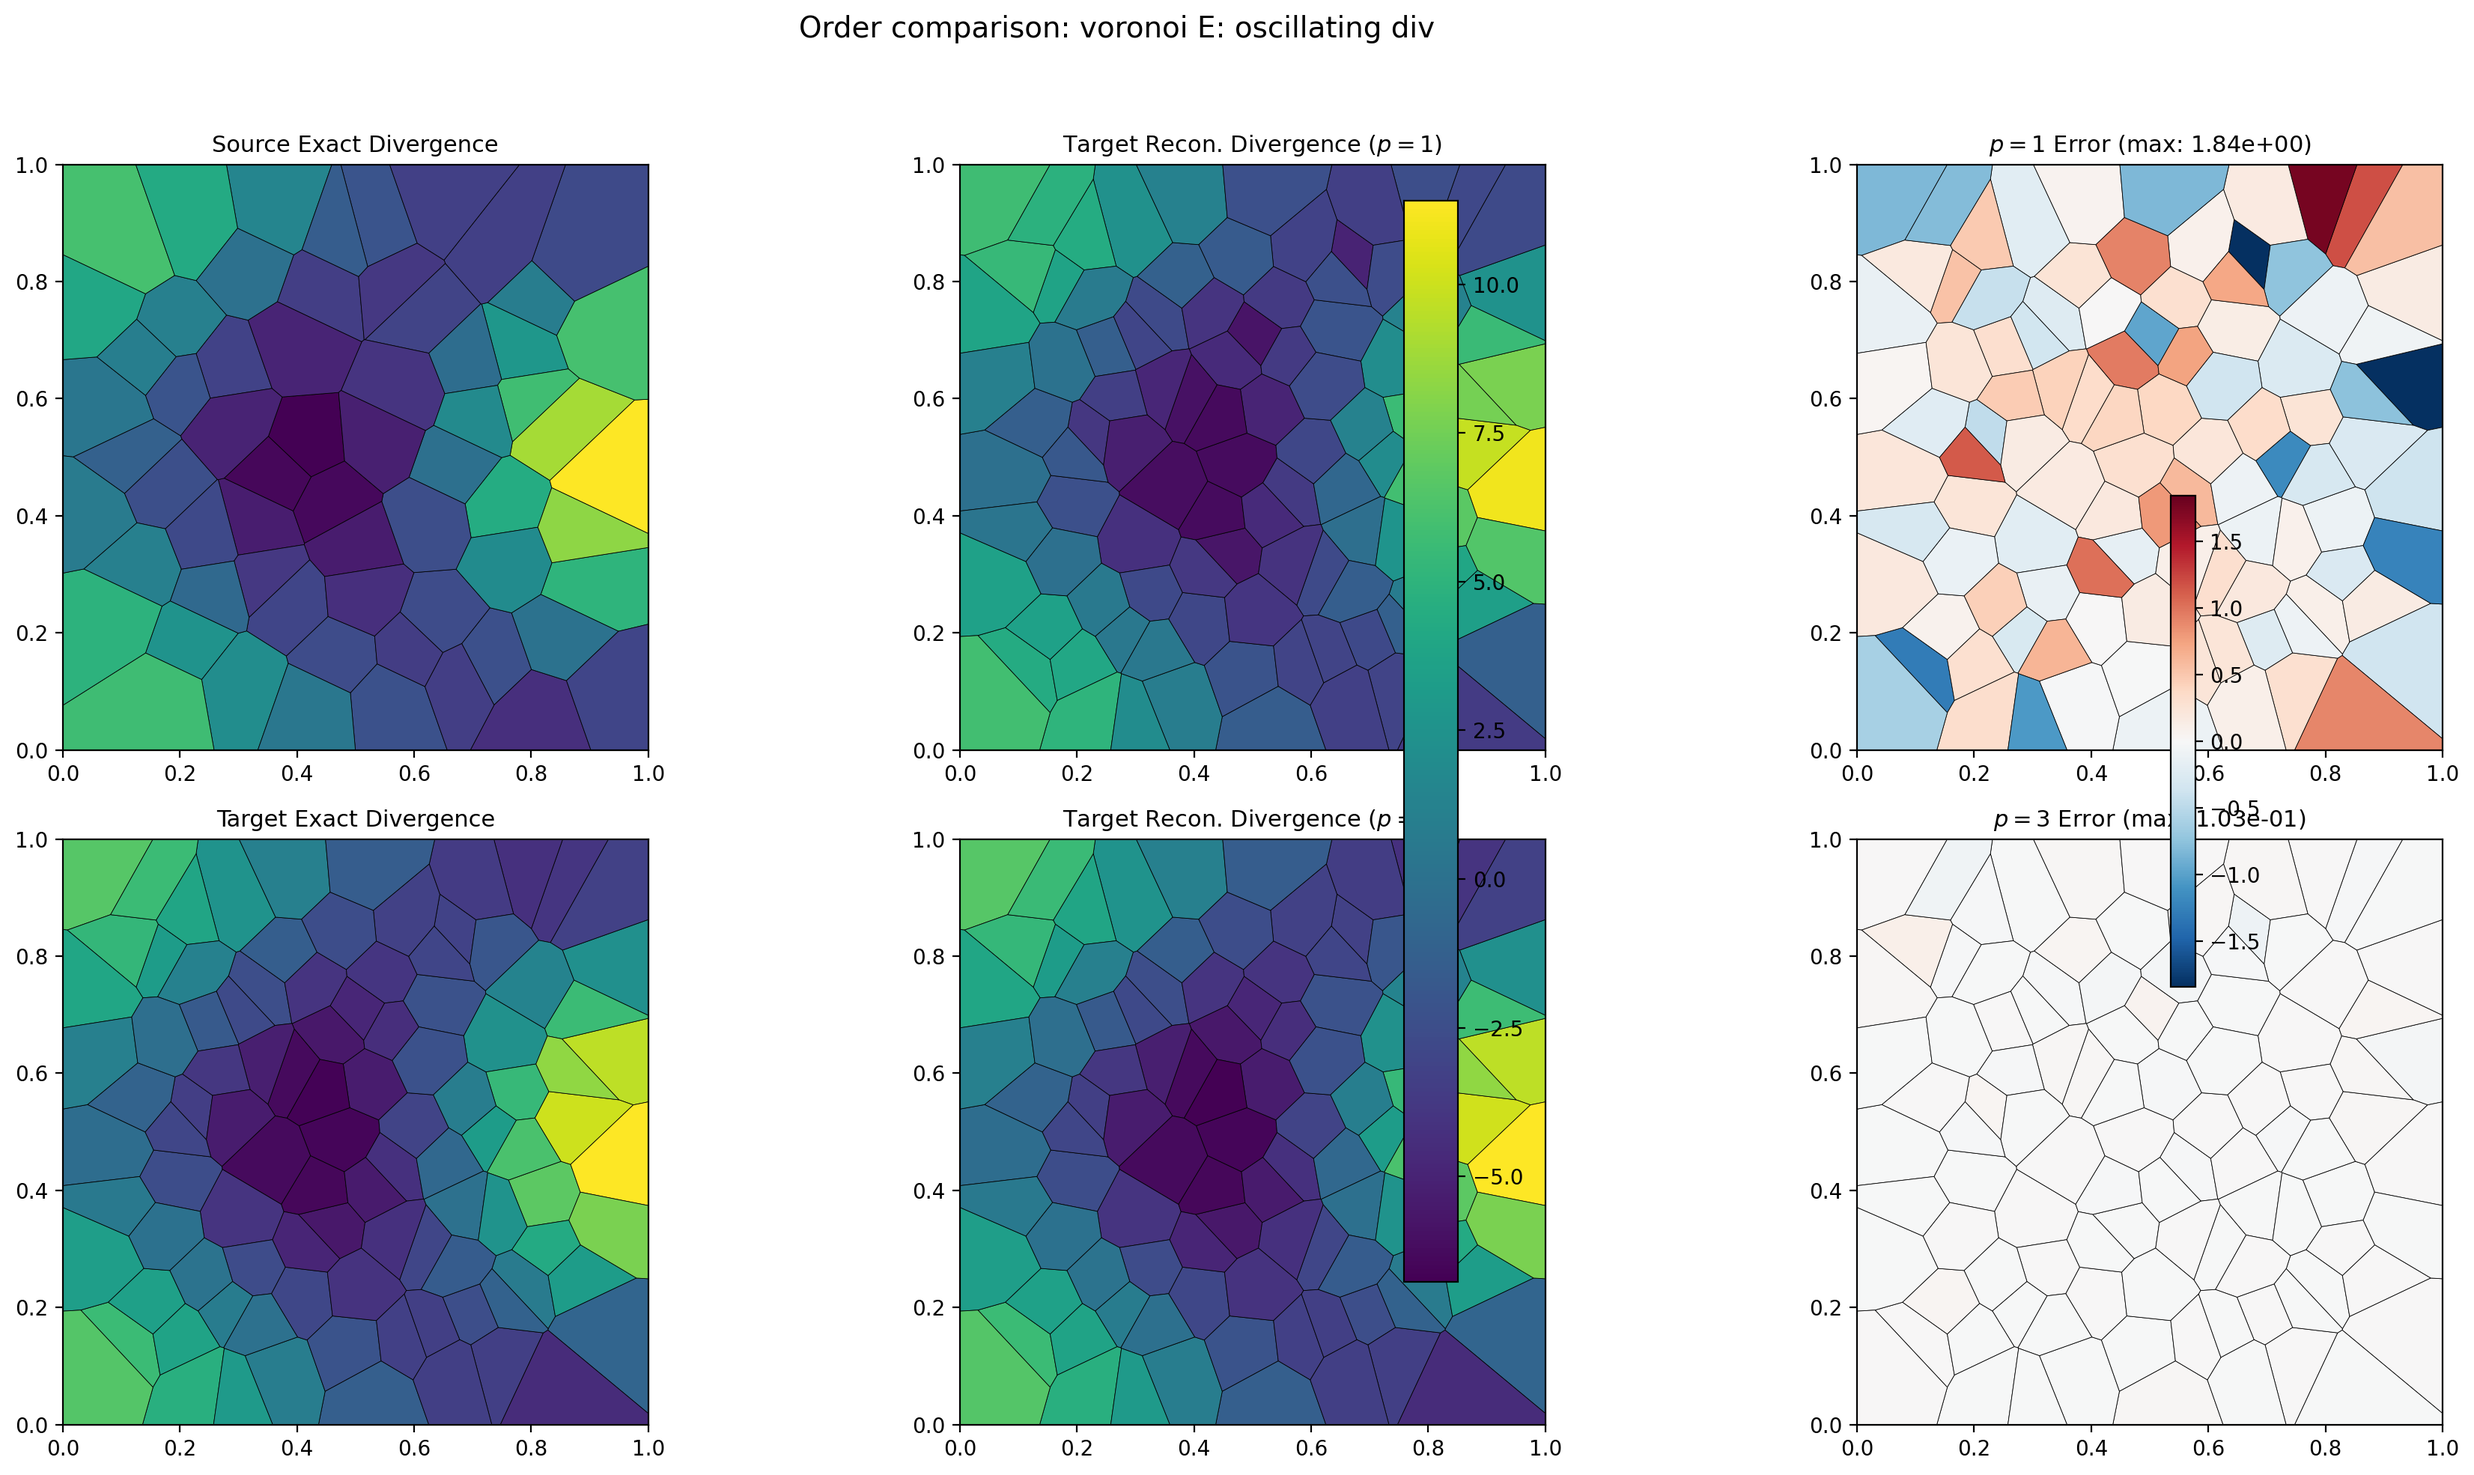
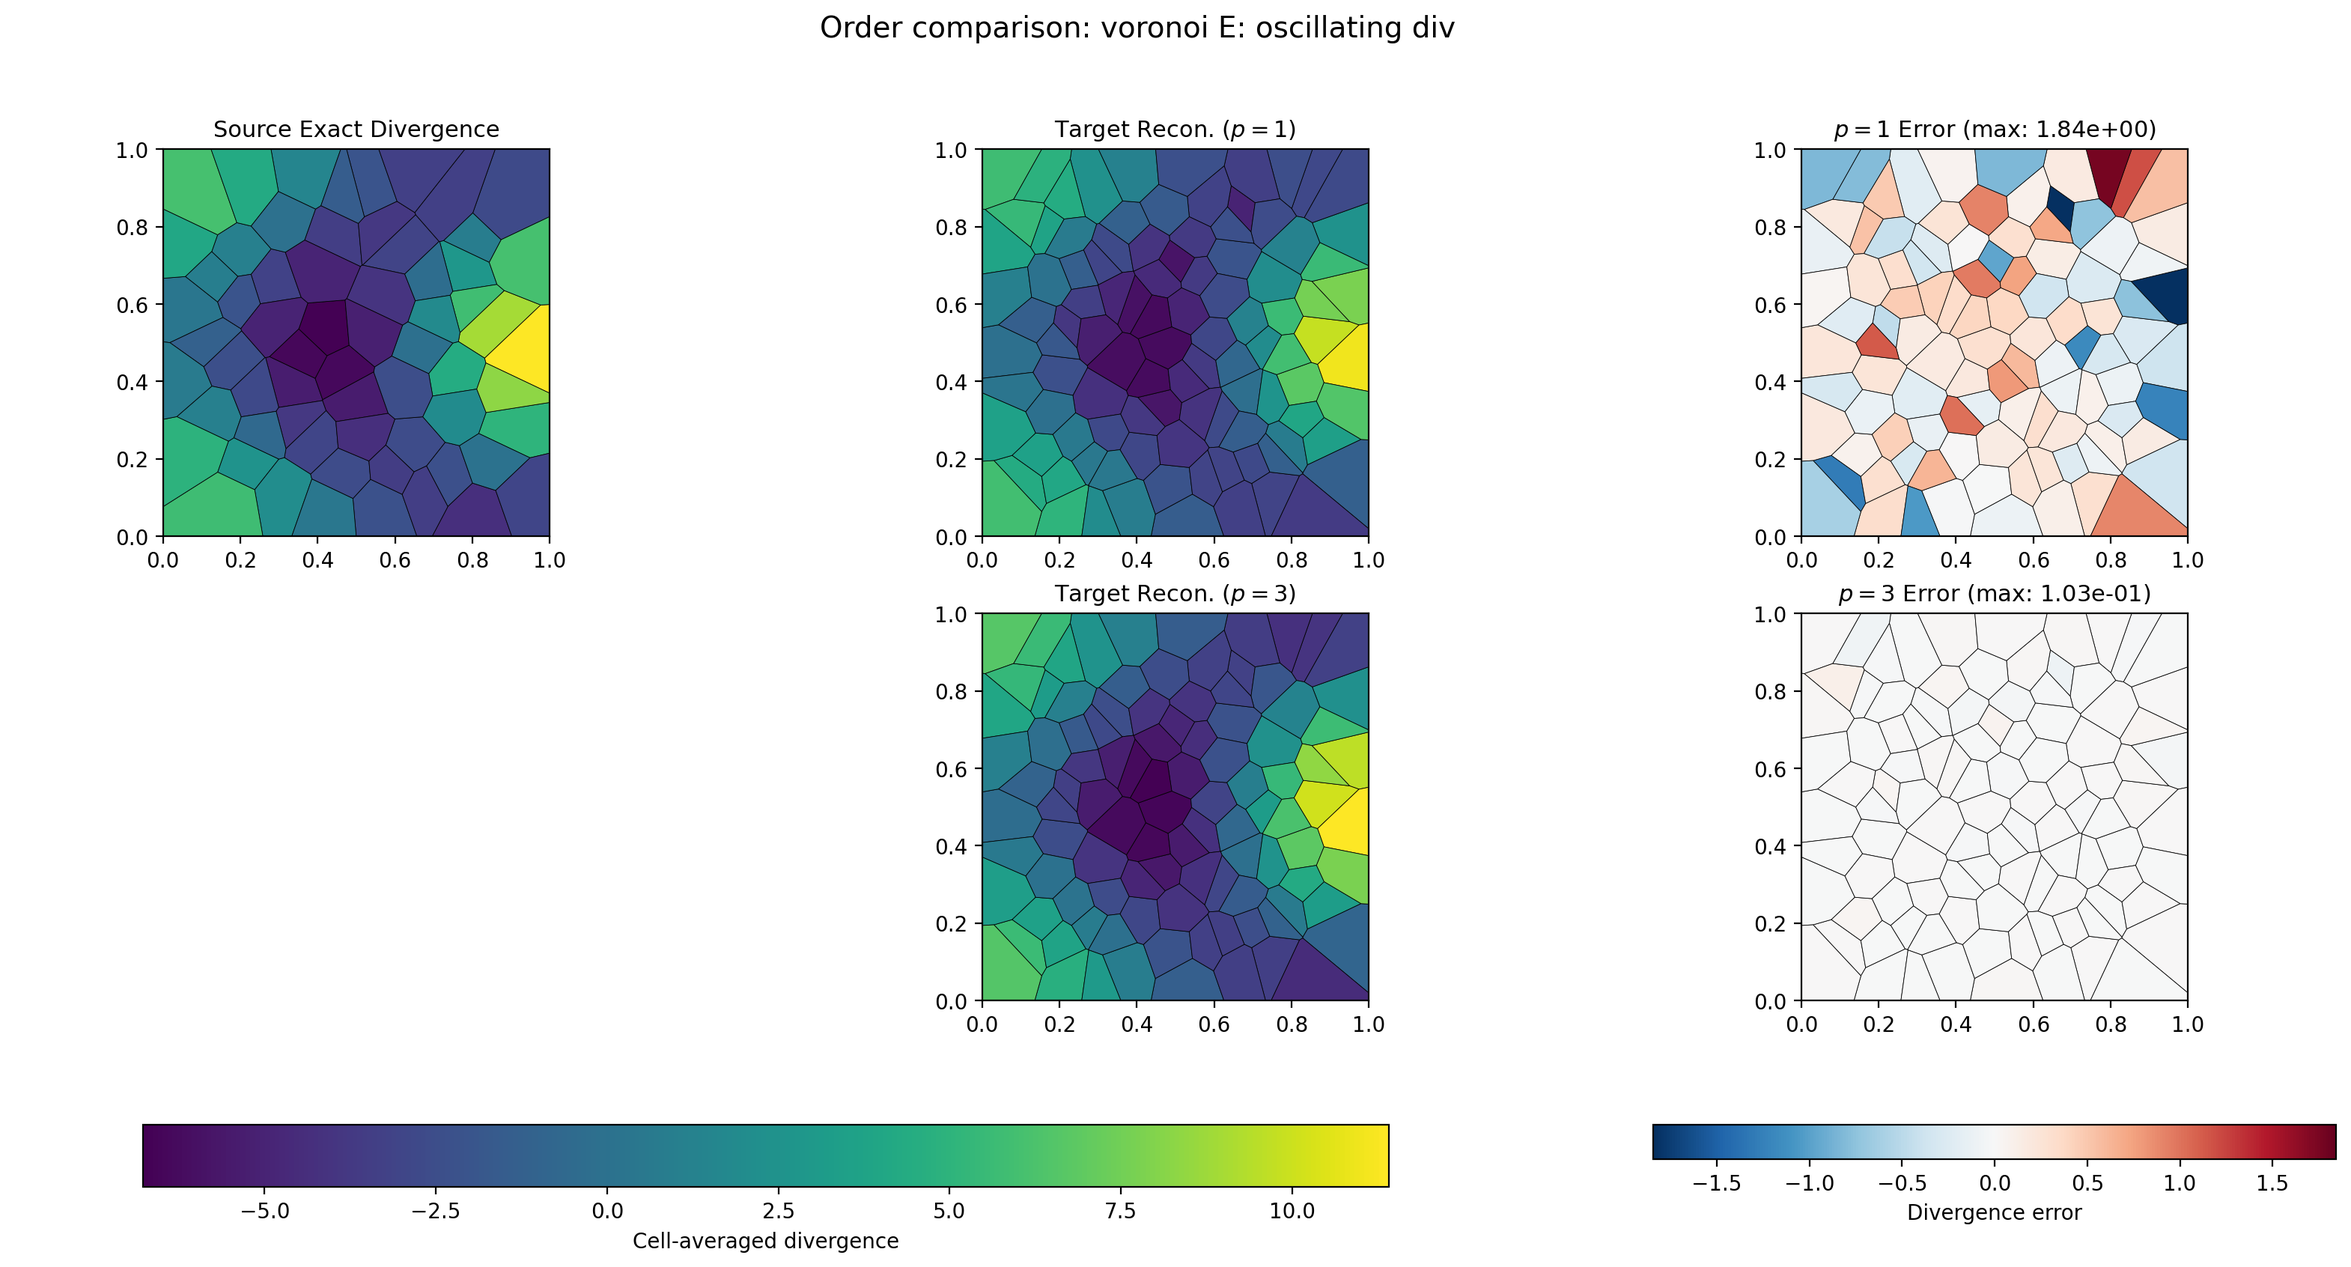
Fix order comparison figures: remove target-exact panel, colorbars outside
- Remove redundant "Target Exact Divergence" panel from the 2×3 layout
- Change to 5-panel layout: source exact, p=1 recon, p=1 error (top row),
  p=3 recon, p=3 error (bottom row)
- Move colorbars below the plots with orientation="horizontal" and
  pad=0.12 so they sit outside the panel bounding boxes
- Update LaTeX caption to match new panel layout

diff --git a/scripts/visualize.py b/scripts/visualize.py
@@ -215,7 +215,7 @@ def render_edge_jump(source_file: Path, output_dir: Path):
 
 
 def render_order_comparison(source_file: Path, output_dir: Path):
-    """Render 4-panel comparison: source exact, target p=1, target p=3, p=3 error."""
+    """Render 5-panel comparison: source exact, p=1 recon, p=1 error, p=3 recon, p=3 error."""
     base_name = source_file.name.replace("_source.txt", "")
     target_p1_file = source_file.with_name(base_name + "_target_p1.txt")
     target_p3_file = source_file.with_name(base_name + "_target_p3.txt")
@@ -230,53 +230,68 @@ def render_order_comparison(source_file: Path, output_dir: Path):
     p1_error = tgt_p1_vals - tgt_exact_vals
     p3_error = tgt_p3_vals - tgt_exact_vals
 
-    fig, axes = plt.subplots(2, 3, figsize=(18, 10))
+    fig = plt.figure(figsize=(20, 9))
+    # Layout: top row has 3 panels (source, p=1 recon, p=1 error)
+    #         bottom row has 2 panels (p=3 recon, p=3 error) centered
+    ax_src  = fig.add_subplot(2, 3, 1)
+    ax_p1   = fig.add_subplot(2, 3, 2)
+    ax_p1e  = fig.add_subplot(2, 3, 3)
+    # Bottom row: positions 4-6, use 5 and 6 to right-align with p=1 row
+    ax_p3   = fig.add_subplot(2, 3, 5)
+    ax_p3e  = fig.add_subplot(2, 3, 6)
+    # Hide unused bottom-left
+    ax_blank = fig.add_subplot(2, 3, 4)
+    ax_blank.axis("off")
 
     vmin = min(src_vals.min(), tgt_p1_vals.min(), tgt_p3_vals.min(), tgt_exact_vals.min())
     vmax = max(src_vals.max(), tgt_p1_vals.max(), tgt_p3_vals.max(), tgt_exact_vals.max())
     err_max = max(np.abs(p1_error).max(), np.abs(p3_error).max(), 1.0e-16)
 
-    # Top row: source exact, target exact, target p=1
-    panels_top = [
-        (axes[0, 0], src_polys, src_vals, "viridis", (vmin, vmax), "Source Exact Divergence"),
-        (axes[0, 1], tgt_p1_polys, tgt_p1_vals, "viridis", (vmin, vmax), r"Target Recon. Divergence ($p=1$)"),
-        (axes[0, 2], tgt_p1_polys, p1_error, "RdBu_r", (-err_max, err_max),
-         f"$p=1$ Error (max: {np.abs(p1_error).max():.2e})"),
+    field_panels = [
+        (ax_src, src_polys, src_vals, "Source Exact Divergence"),
+        (ax_p1, tgt_p1_polys, tgt_p1_vals, r"Target Recon. ($p=1$)"),
+        (ax_p3, tgt_p3_polys, tgt_p3_vals, r"Target Recon. ($p=3$)"),
     ]
-    # Bottom row: target exact, target p=3, p=3 error
-    panels_bot = [
-        (axes[1, 0], tgt_p3_polys, tgt_exact_vals, "viridis", (vmin, vmax), "Target Exact Divergence"),
-        (axes[1, 1], tgt_p3_polys, tgt_p3_vals, "viridis", (vmin, vmax), r"Target Recon. Divergence ($p=3$)"),
-        (axes[1, 2], tgt_p3_polys, p3_error, "RdBu_r", (-err_max, err_max),
-         f"$p=3$ Error (max: {np.abs(p3_error).max():.2e})"),
+    error_panels = [
+        (ax_p1e, tgt_p1_polys, p1_error, f"$p=1$ Error (max: {np.abs(p1_error).max():.2e})"),
+        (ax_p3e, tgt_p3_polys, p3_error, f"$p=3$ Error (max: {np.abs(p3_error).max():.2e})"),
     ]
 
     value_mappable = None
     error_mappable = None
-    for ax, polys, values, cmap, clim, title in panels_top + panels_bot:
-        coll = PolyCollection(polys, array=values, cmap=cmap, edgecolors="k", linewidths=0.3)
-        coll.set_clim(*clim)
+    for ax, polys, values, title in field_panels:
+        coll = PolyCollection(polys, array=values, cmap="viridis", edgecolors="k", linewidths=0.3)
+        coll.set_clim(vmin, vmax)
         ax.add_collection(coll)
         ax.set_xlim(0.0, 1.0)
         ax.set_ylim(0.0, 1.0)
         ax.set_aspect("equal")
         ax.set_title(title, fontsize=11)
-        if cmap == "viridis":
-            value_mappable = coll
-        else:
-            error_mappable = coll
+        value_mappable = coll
 
+    for ax, polys, values, title in error_panels:
+        coll = PolyCollection(polys, array=values, cmap="RdBu_r", edgecolors="k", linewidths=0.3)
+        coll.set_clim(-err_max, err_max)
+        ax.add_collection(coll)
+        ax.set_xlim(0.0, 1.0)
+        ax.set_ylim(0.0, 1.0)
+        ax.set_aspect("equal")
+        ax.set_title(title, fontsize=11)
+        error_mappable = coll
+
+    # Colorbars outside the plot bounding boxes
     if value_mappable is not None:
-        fig.colorbar(value_mappable, ax=[axes[0, 0], axes[0, 1], axes[1, 0], axes[1, 1]],
-                     orientation="vertical", fraction=0.04, pad=0.02)
+        fig.colorbar(value_mappable, ax=[ax_src, ax_p1, ax_p3],
+                     orientation="horizontal", fraction=0.06, pad=0.12,
+                     label="Cell-averaged divergence")
     if error_mappable is not None:
-        fig.colorbar(error_mappable, ax=[axes[0, 2], axes[1, 2]],
-                     orientation="vertical", fraction=0.04, pad=0.02)
+        fig.colorbar(error_mappable, ax=[ax_p1e, ax_p3e],
+                     orientation="horizontal", fraction=0.06, pad=0.12,
+                     label="Divergence error")
 
     display_name = base_name.replace("vis_order_compare_", "").replace("_", " ")
     output_name = base_name.replace(": ", "__").replace(" ", "_")
-    fig.suptitle(f"Order comparison: {display_name}", fontsize=14, y=0.98)
-    fig.tight_layout(rect=[0, 0, 1, 0.95])
+    fig.suptitle(f"Order comparison: {display_name}", fontsize=14)
     output_dir.mkdir(parents=True, exist_ok=True)
     output_path = output_dir / f"{output_name}_order_compare.png"
     fig.savefig(output_path, dpi=200, bbox_inches="tight")

diff --git a/docs/mimetic_voronoi_report.tex b/docs/mimetic_voronoi_report.tex
@@ -1123,10 +1123,10 @@ Figure~\ref{fig:order-compare-voronoi} shows the same field on a
   \centering
   \includegraphics[width=\textwidth]{vis_order_compare_quad_E__oscillating_div_order_compare.png}
   \caption{Quad-to-quad order comparison for the oscillating-divergence field
-  in Eq.~\eqref{eq:oscillating-div-field}.  Top row: source exact divergence,
-  \(p=1\) reconstruction, and \(p=1\) error.  Bottom row: target exact
-  divergence, \(p=3\) reconstruction, and \(p=3\) error.  The \(p=3\) maximum
-  error is \(\sim260\times\) smaller than \(p=1\).}
+  in Eq.~\eqref{eq:oscillating-div-field}.  Top: source exact divergence,
+  \(p=1\) reconstruction, and \(p=1\) error.  Bottom: \(p=3\) reconstruction
+  and \(p=3\) error.  The \(p=3\) maximum error is \(\sim260\times\) smaller
+  than \(p=1\).}
   \label{fig:order-compare-quad}
 \end{figure}
 
